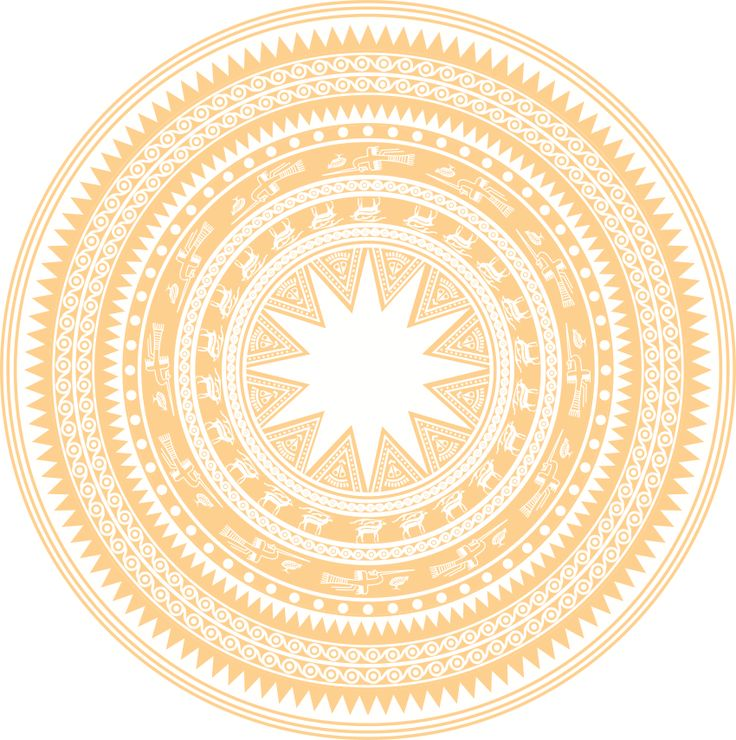
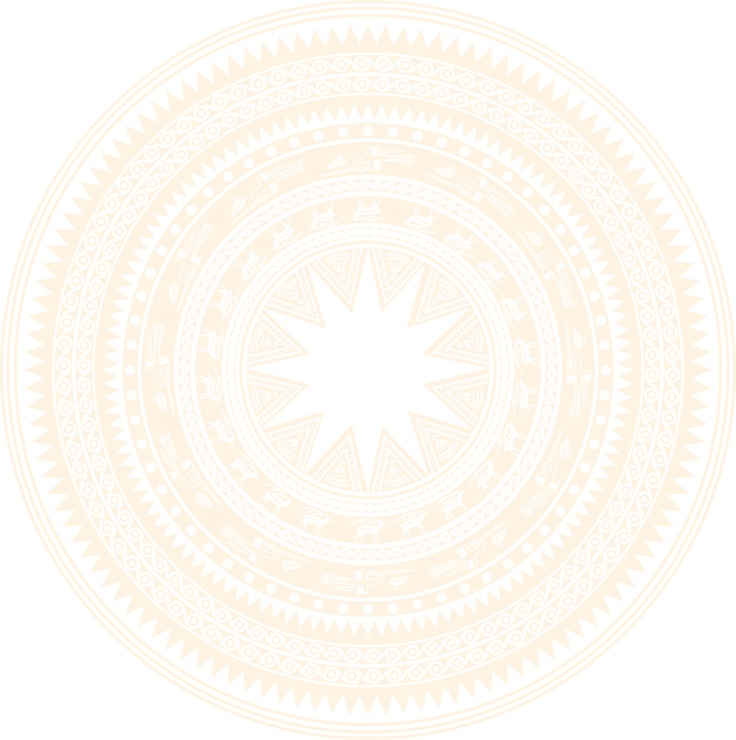
fix header and bg admin

diff --git a/III.Admin/wwwroot/css/admin/site/login.css b/III.Admin/wwwroot/css/admin/site/login.css
@@ -3,6 +3,7 @@
 body {
     background: url("../../../images/default/bg-party.png");
     background-size: 100%;
+    background-position-y: center;
 }
 
 .wapter {
